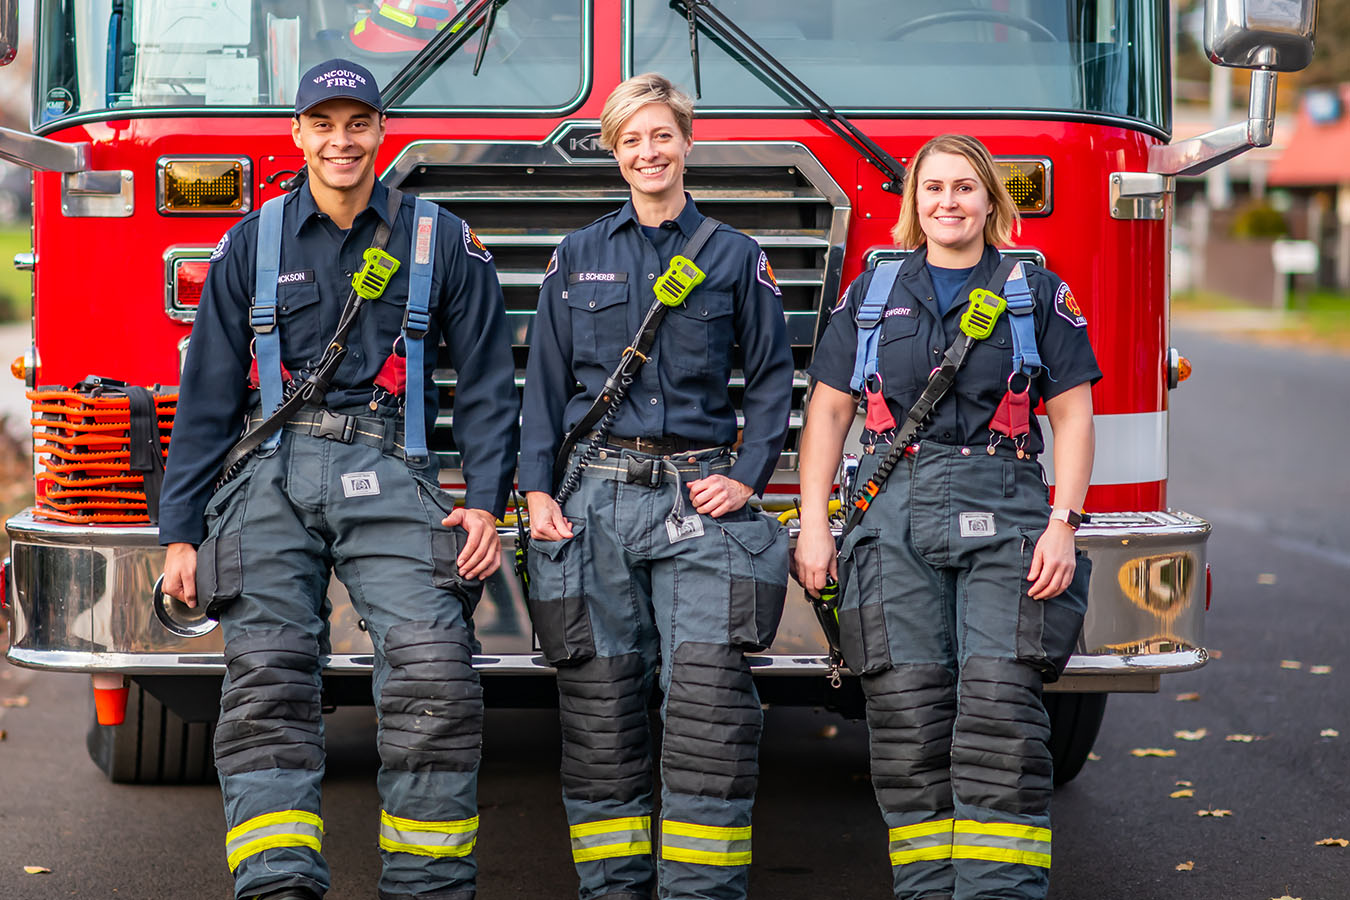
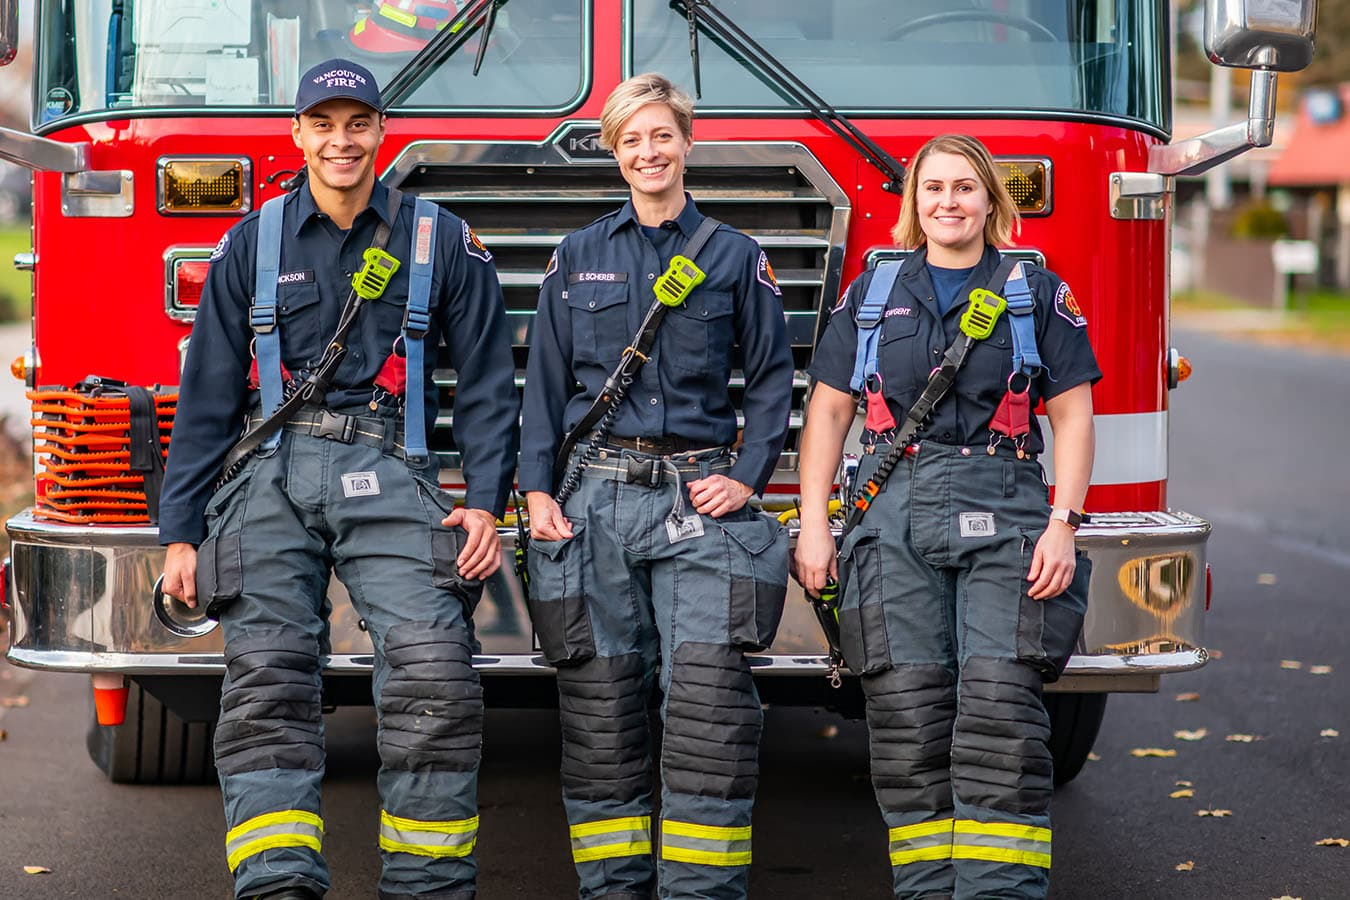
Images run through Squoosh

diff --git a/look-ahead.html b/look-ahead.html
@@ -109,7 +109,7 @@
   <section class="showcase">
     <div class="container-fluid p-0">
       <div class="row no-gutters bg-light">
-        <div class="col-lg-6 text-white showcase-img" style="background-image: url('img/look-ahead-firefighters.jpg');"></div>
+        <div class="col-lg-6 text-white showcase-img" style="background-image: url('img/lookahead-firefighters.jpg');"></div>
         <div class="col-lg-6 my-auto showcase-text">
           <h2>Improving public safety</h2>
           <ul class="lead">
